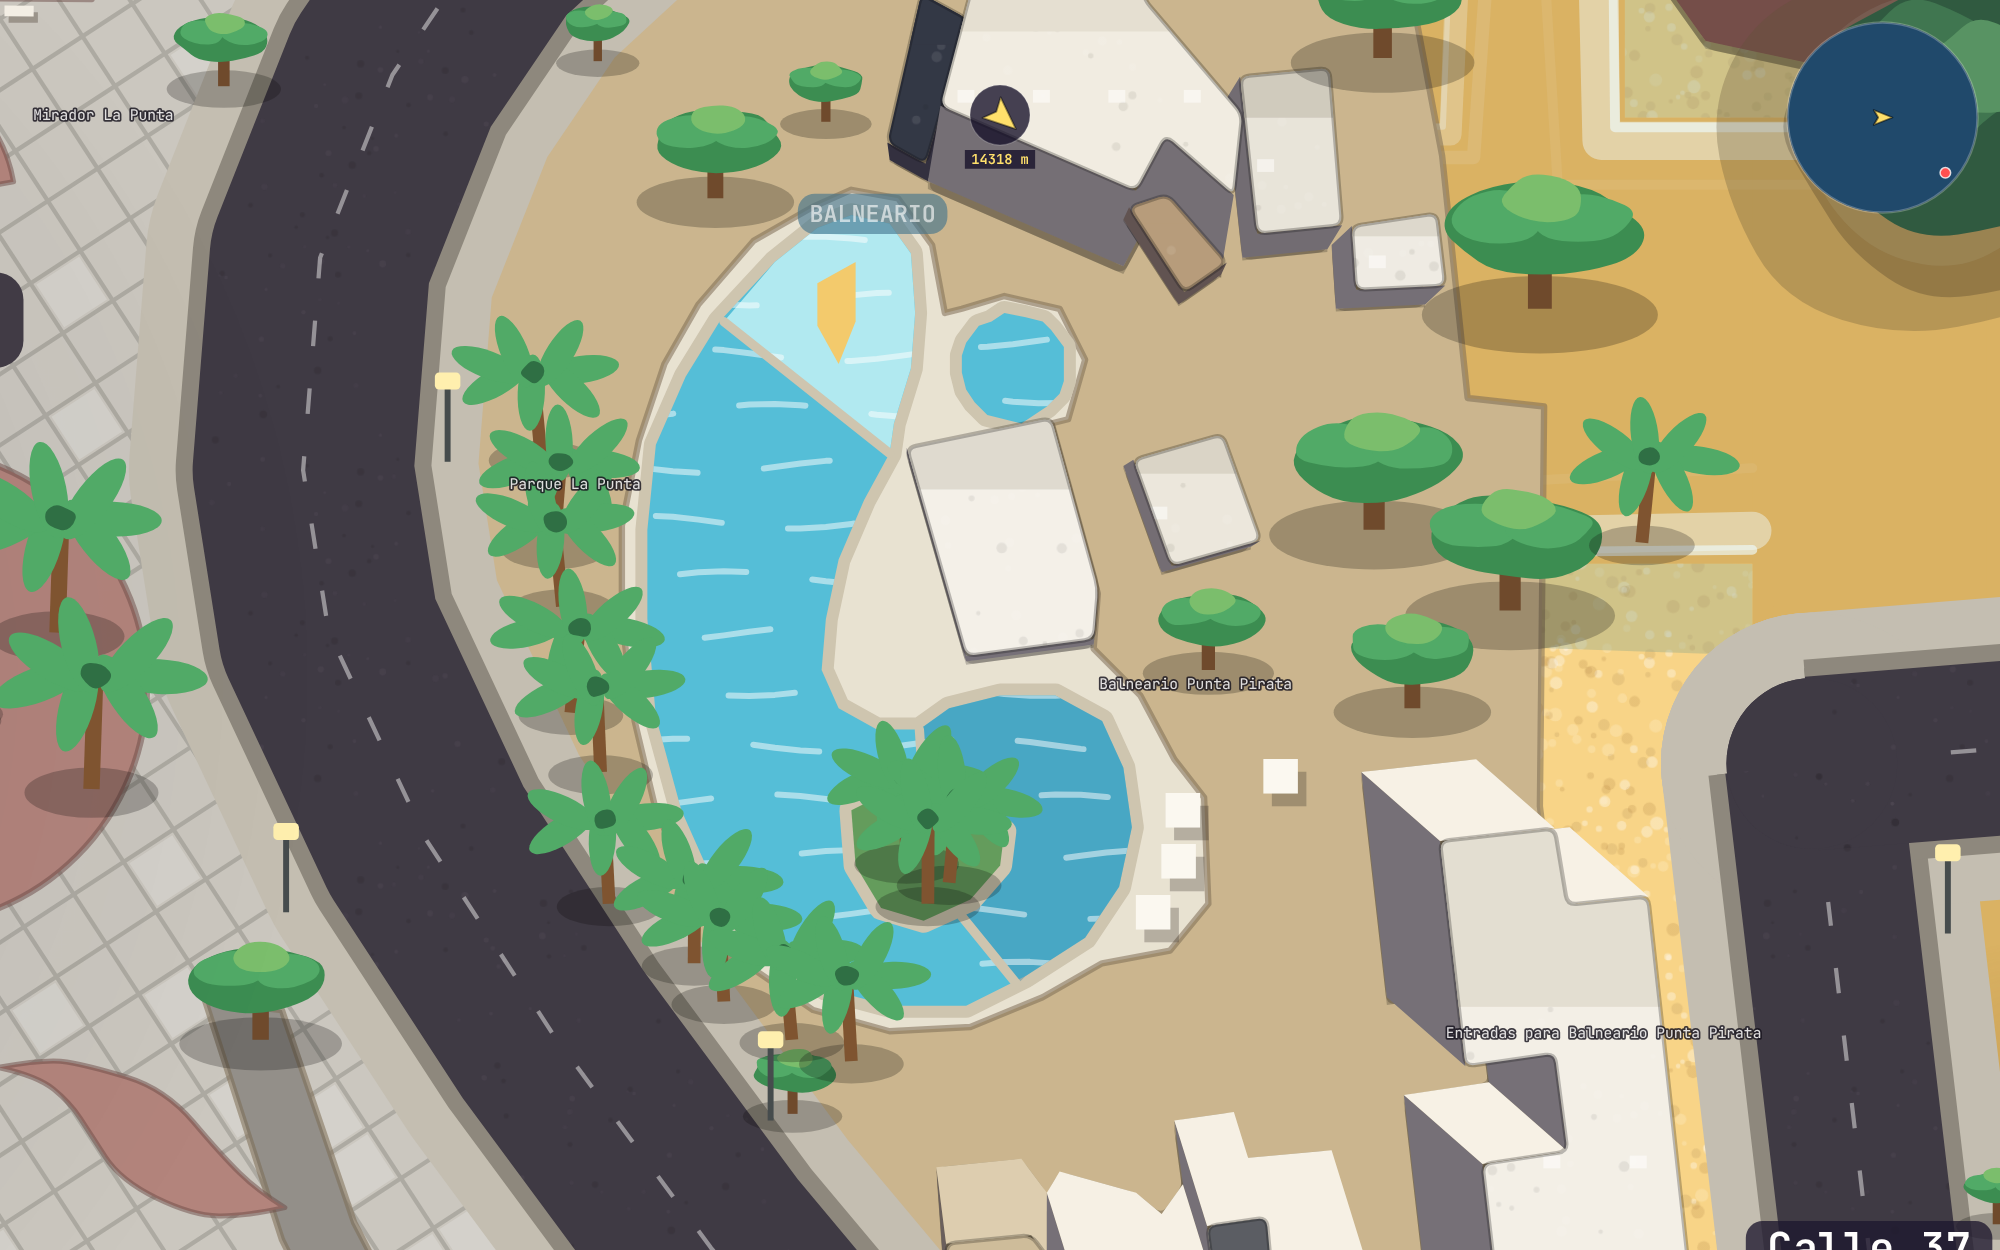
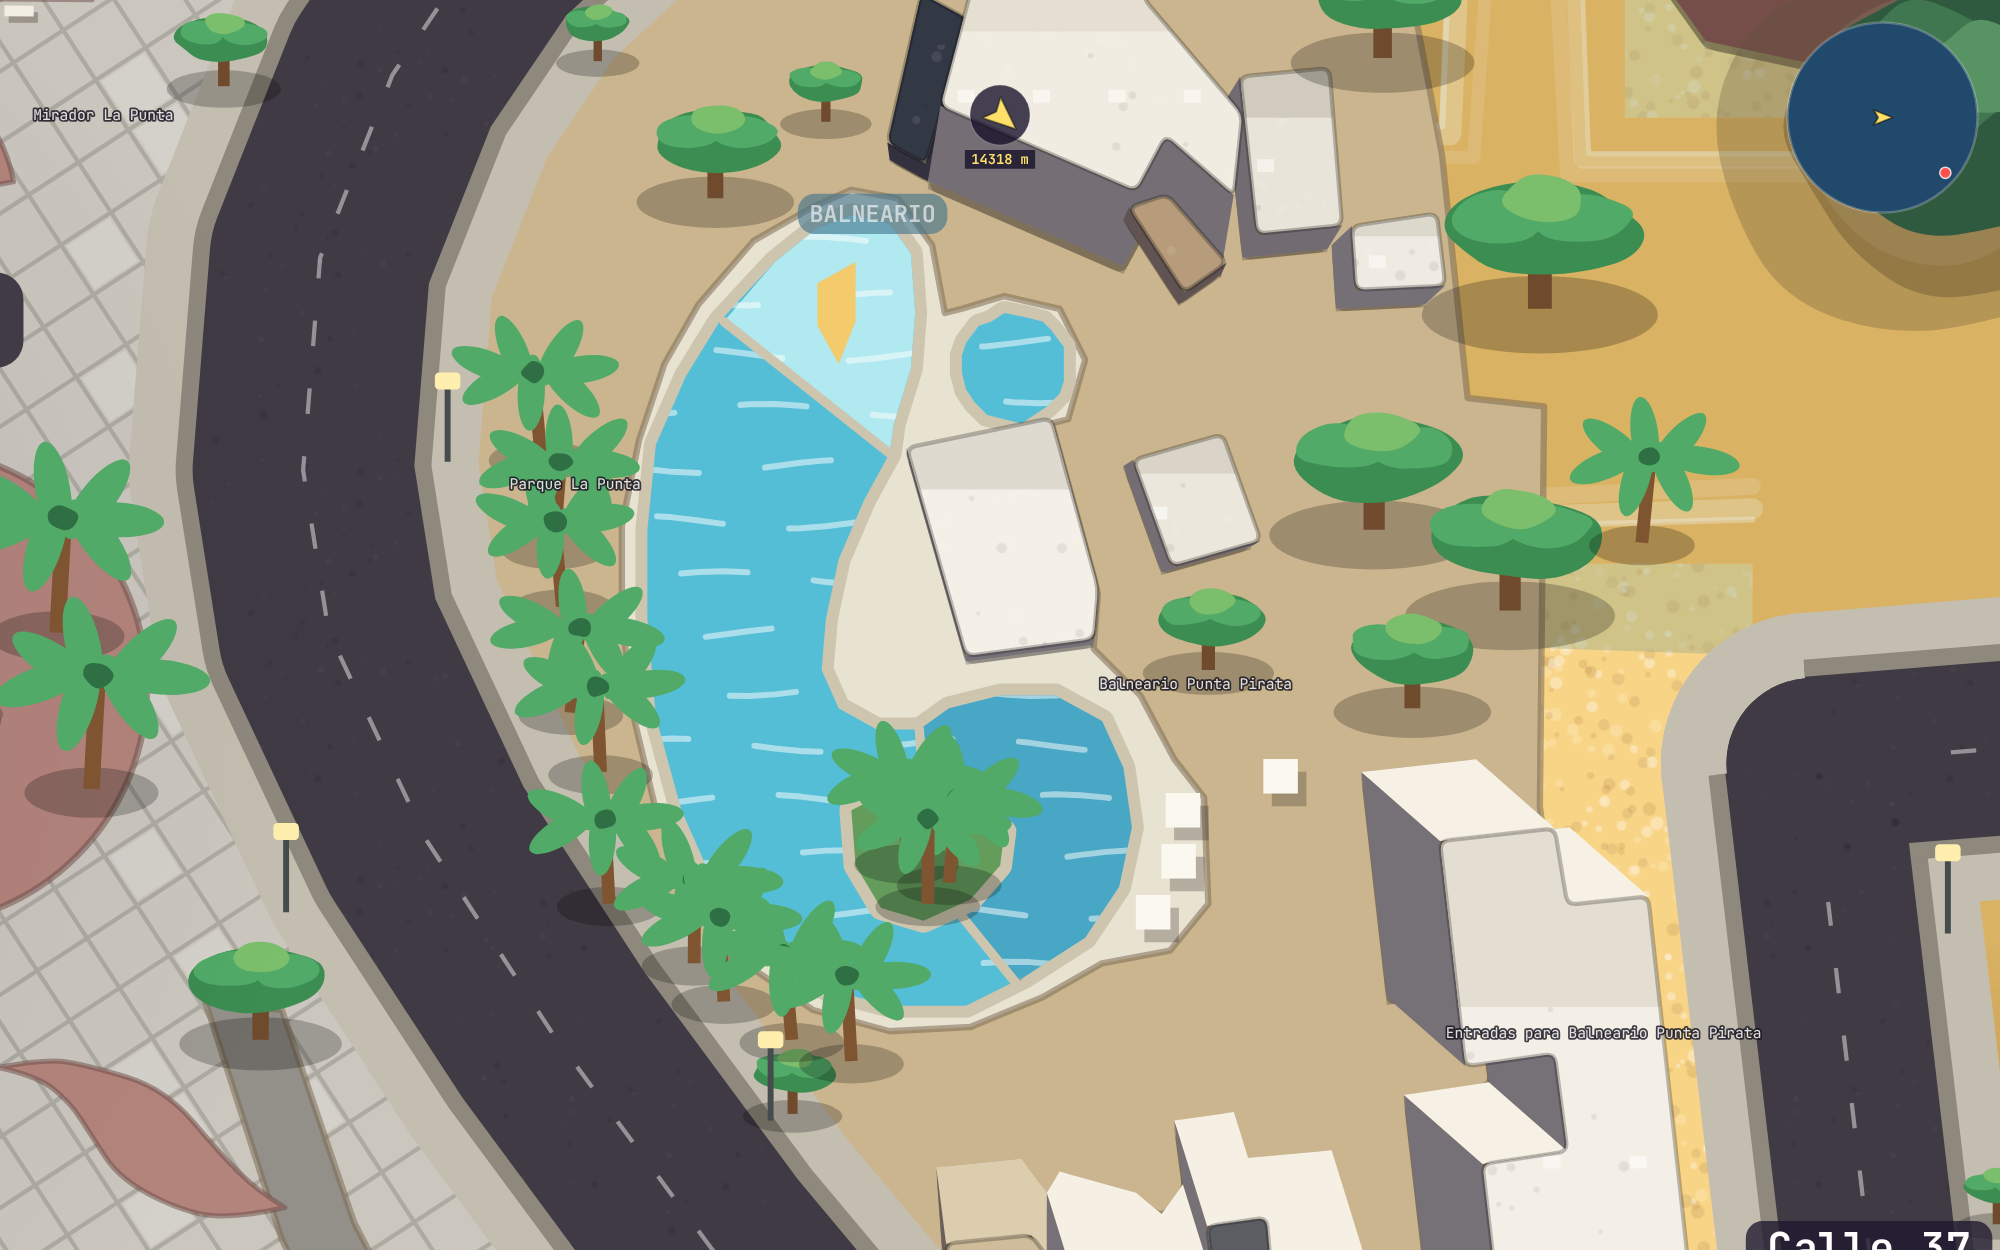
feat(world): la explanada del Faro lleva los cinco malecones; el frente del Paseo en tres franjas hasta el Muelle de Cruceros
La piedra gris cubre toda la guía —de la Avenida 3 a pasar la quinta área
de descanso— con playa entre lengua y lengua. Donde termina empieza el
frente del Paseo: malecón de baldosa contra la acera, verde y playa, sobre
la línea de centro del Paseo de los Turistas y del León Cortés hasta el
Muelle de Cruceros (2,7 km en total). La playa llega a la orilla de hoy,
medida sobre el ráster emitido y alisada, para no dejar kioscos en el mar.
El verde se pinta en c2d/punta.js porque los verdes del mundo van antes
que las aguas interiores de ese frente.

Preview sin reconstruir: el ráster no cambia.

Claude-Session: https://claude.ai/code/session_018GSydhWuDAT4g4GG3QKVY6

diff --git a/src/render/c2d/punta.js b/src/render/c2d/punta.js
@@ -99,6 +99,9 @@ function drawPunta(view, t = 0) {
   if (!P || !aabbInView(P, view, 40)) return;
   const ppm = W.PX_PER_M;
   ctx.lineJoin = "round"; ctx.lineCap = "round";
+  // el verde del Paseo. Se pinta ACÁ y no con los verdes del mundo porque aquéllos van
+  // antes que las aguas interiores, y sobre este frente hay agua vieja que lo taparía
+  for (const gr of P.greens || []) { ctx.fillStyle = MATERIALS.green[gr.type]; ctx.fill(shape(gr)); }
   // la playa entre lengua y lengua, y la del frente del Paseo: la arena del mundo
   ctx.fillStyle = weatherColors().sand;
   for (const sd of P.sands || []) ctx.fill(shape(sd));

diff --git a/tests/test_punta.py b/tests/test_punta.py
@@ -71,7 +71,7 @@ class PuntaRegistryTests(unittest.TestCase):
         self.assertTrue(all(18 < w[k] < 70 for k in ("north", "tip", "south")))
         # el círculo del Faro cabe entero en el malecón: no empuja el borde
         self.assertGreaterEqual(w["tip"], 15 + 2 * self.doc["faro"]["plazaRM"] + 2)
-        self.assertIn(ml["greyEnd"]["afterSpur"], [sp["osmId"] for sp in ml["spurs"]["at"]])
+        self.assertEqual(self.doc["paseo"]["until"]["pier"], "muelle_nacional")
         self.assertEqual(self.doc["muelle"]["pier"], "muelle_faro")
         self.assertGreater(self.doc["paseo"]["beachM"], 0)
         self.assertGreaterEqual(len(ml["alongLL"]), 10)
